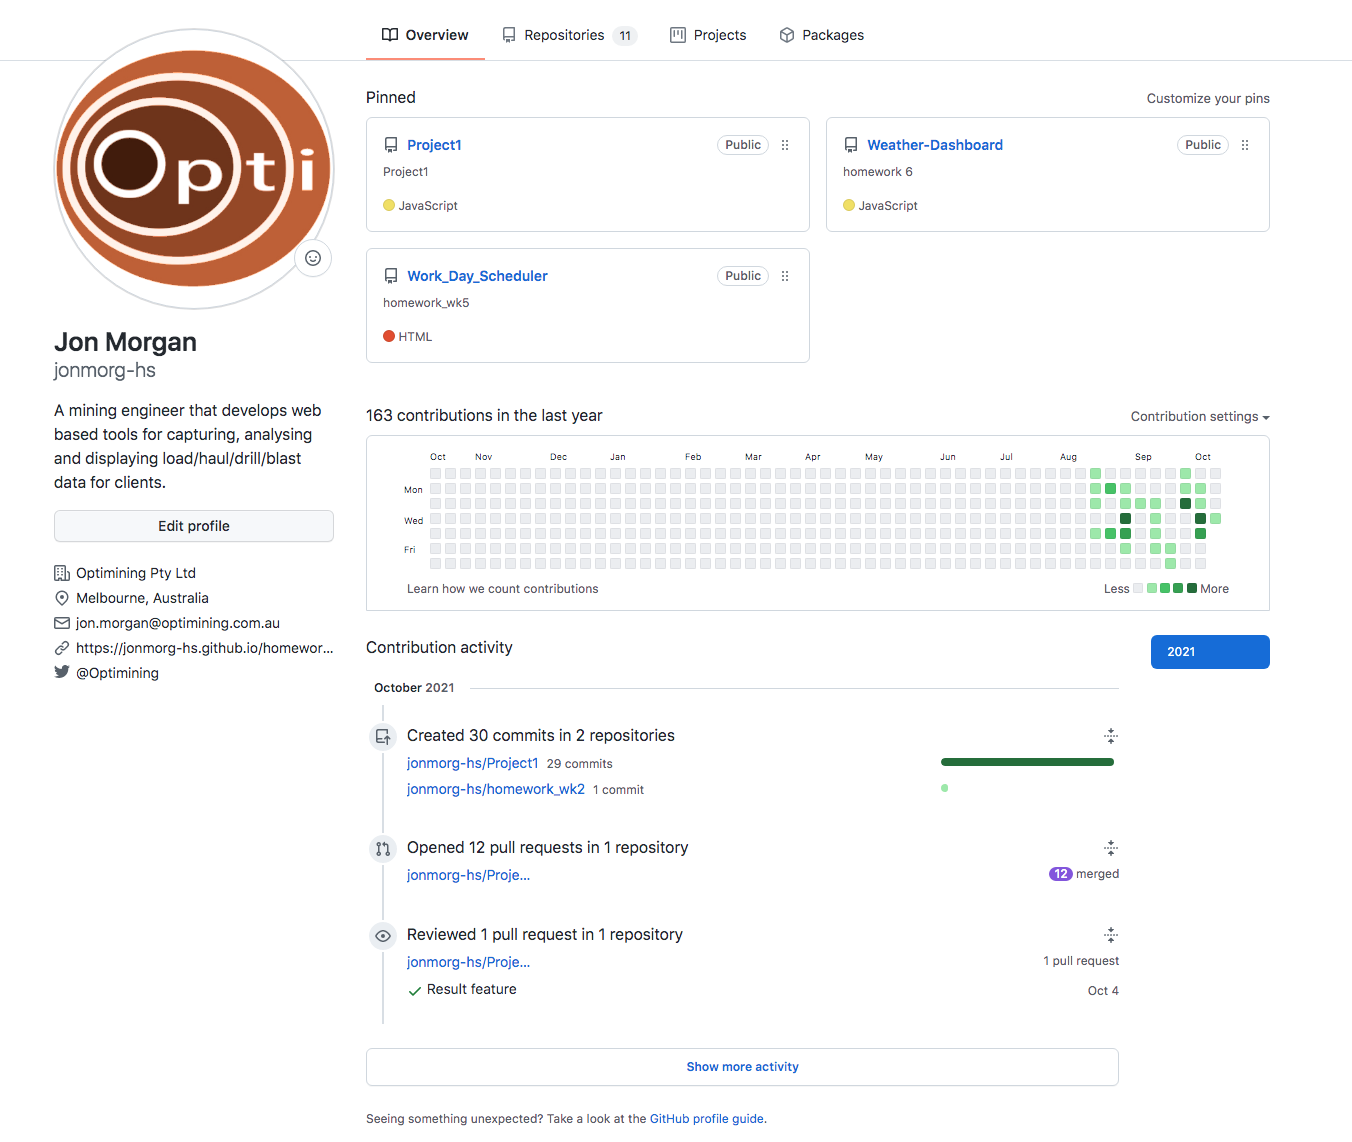
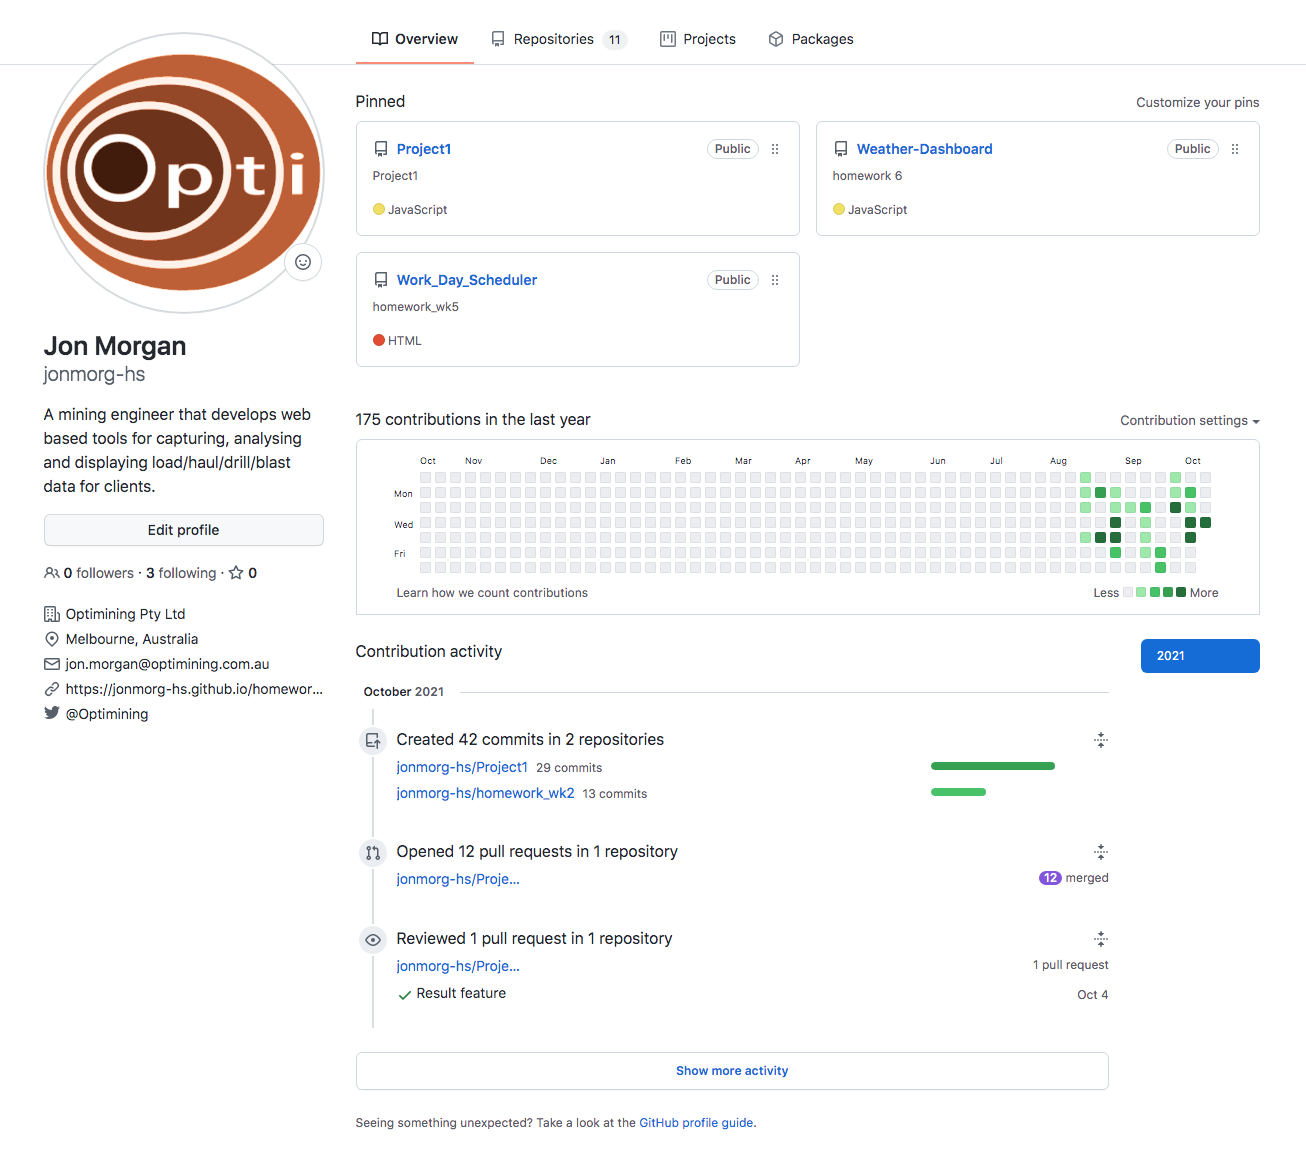
updated github info

diff --git a/README.md b/README.md
@@ -10,6 +10,13 @@ Links for contacts (call and email), Github, LinkedIn and Twitter
 
 2. Updated Github profile with Project 1 and two homework assignments pinned
 
+Added Company Icon as photo/avator.
+Added Biography
+Added company email address
+Added link to portfolio website
+Pinned Project and two homework assignments
+Added 3 followers (Project1 Contributors)
+
 <img src="assets/images/screenshot_2.png">
 
 3. Updated Portfolio page with downloadable link to my resume
@@ -19,6 +26,8 @@ Links for contacts (call and email), Github, LinkedIn and Twitter
 4. Updated LinkedIn profile
 
 <img src="assets/images/screenshot_3.png">
+
+Examples of student work are accessible from the linked Github page.
 
 https://jonmorg-hs.github.io/homework_wk2/
 
